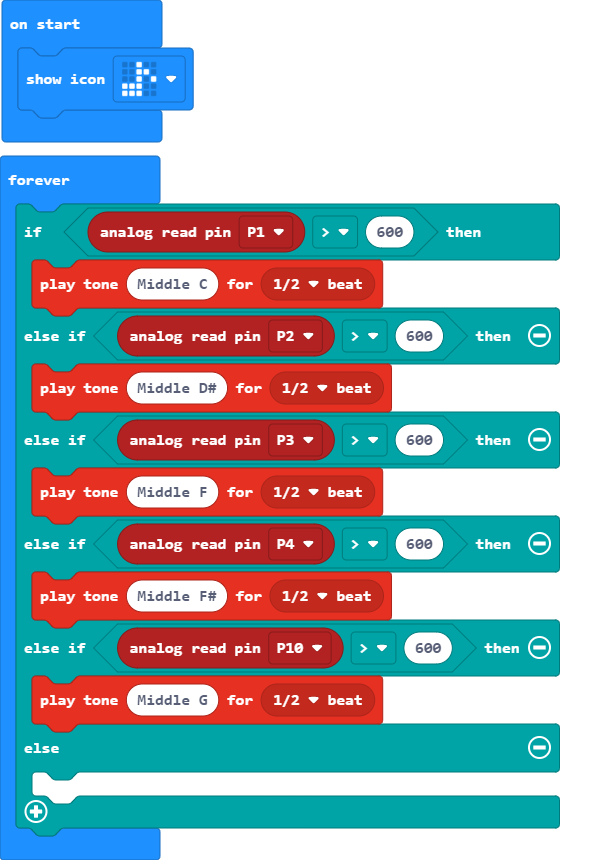
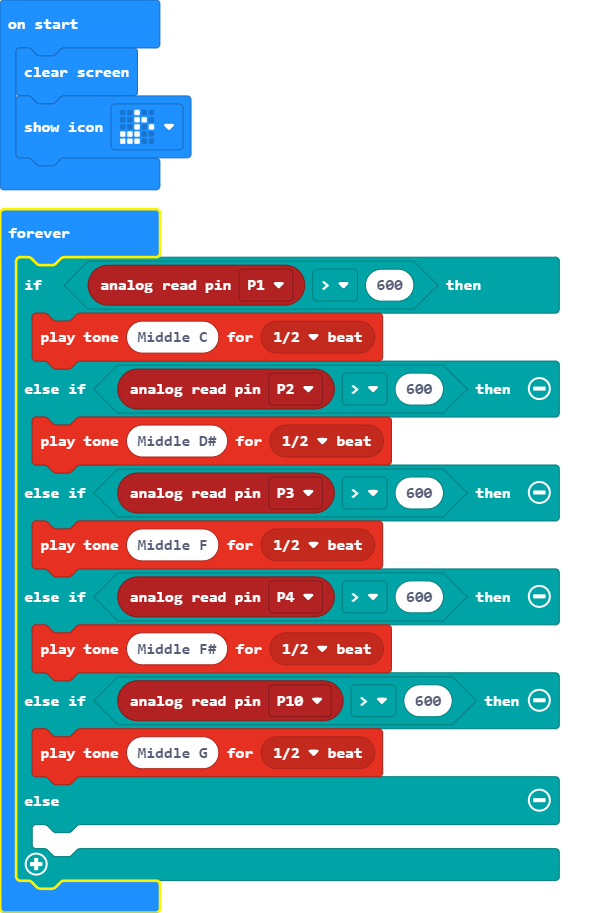
Update main.blocks, main.ts

diff --git a/main.ts b/main.ts
@@ -1,3 +1,4 @@
+basic.clearScreen()
 basic.showIcon(IconNames.EigthNote)
 basic.forever(function () {
     if (pins.analogReadPin(AnalogPin.P1) > 600) {
